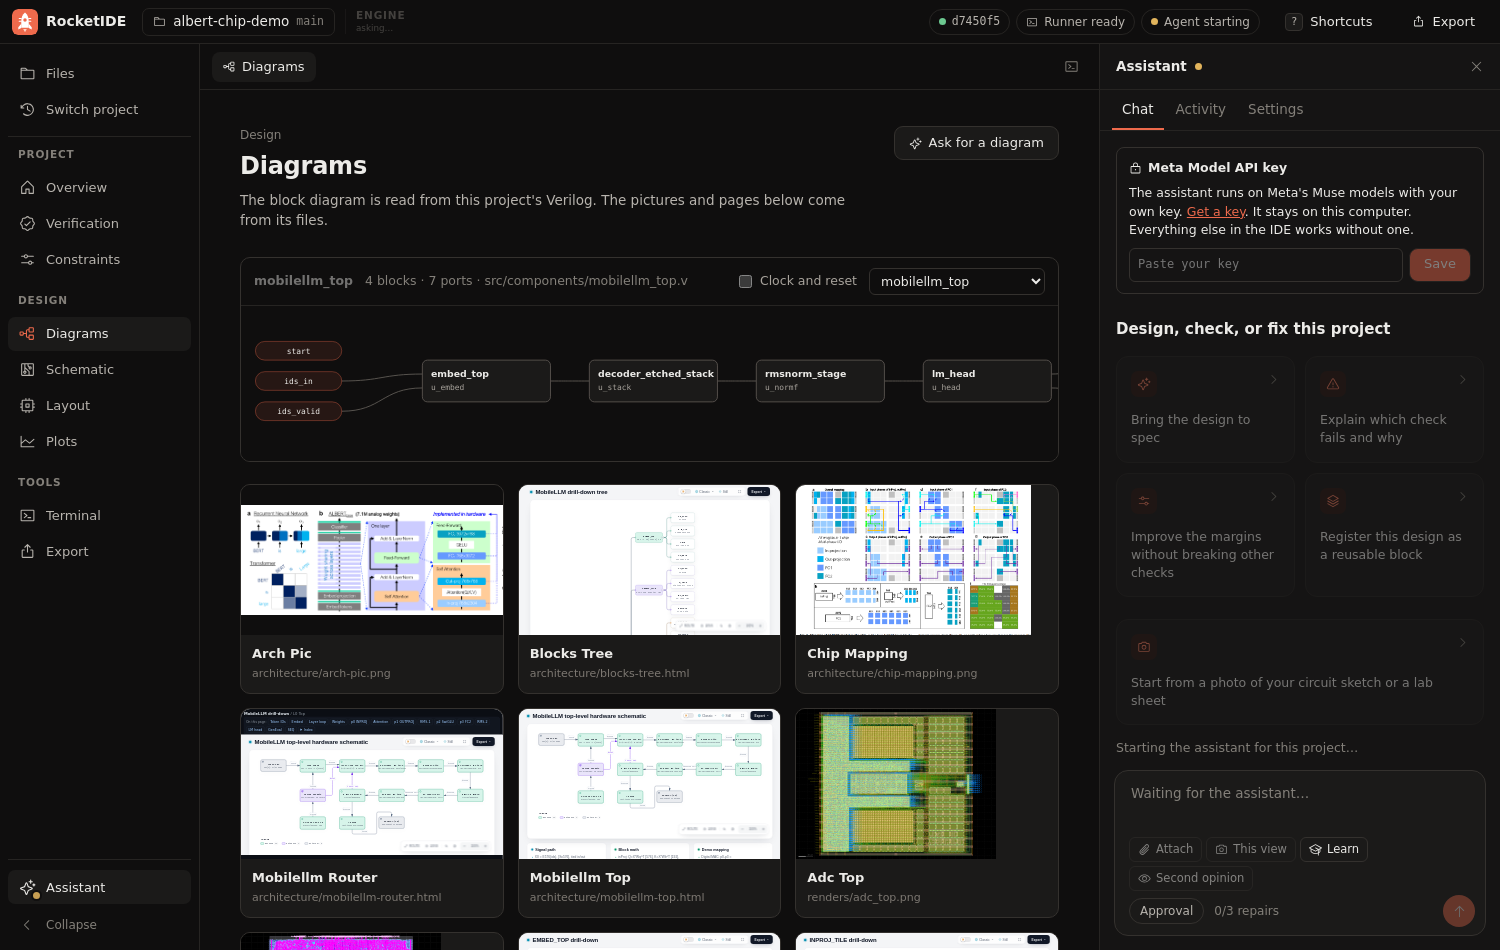
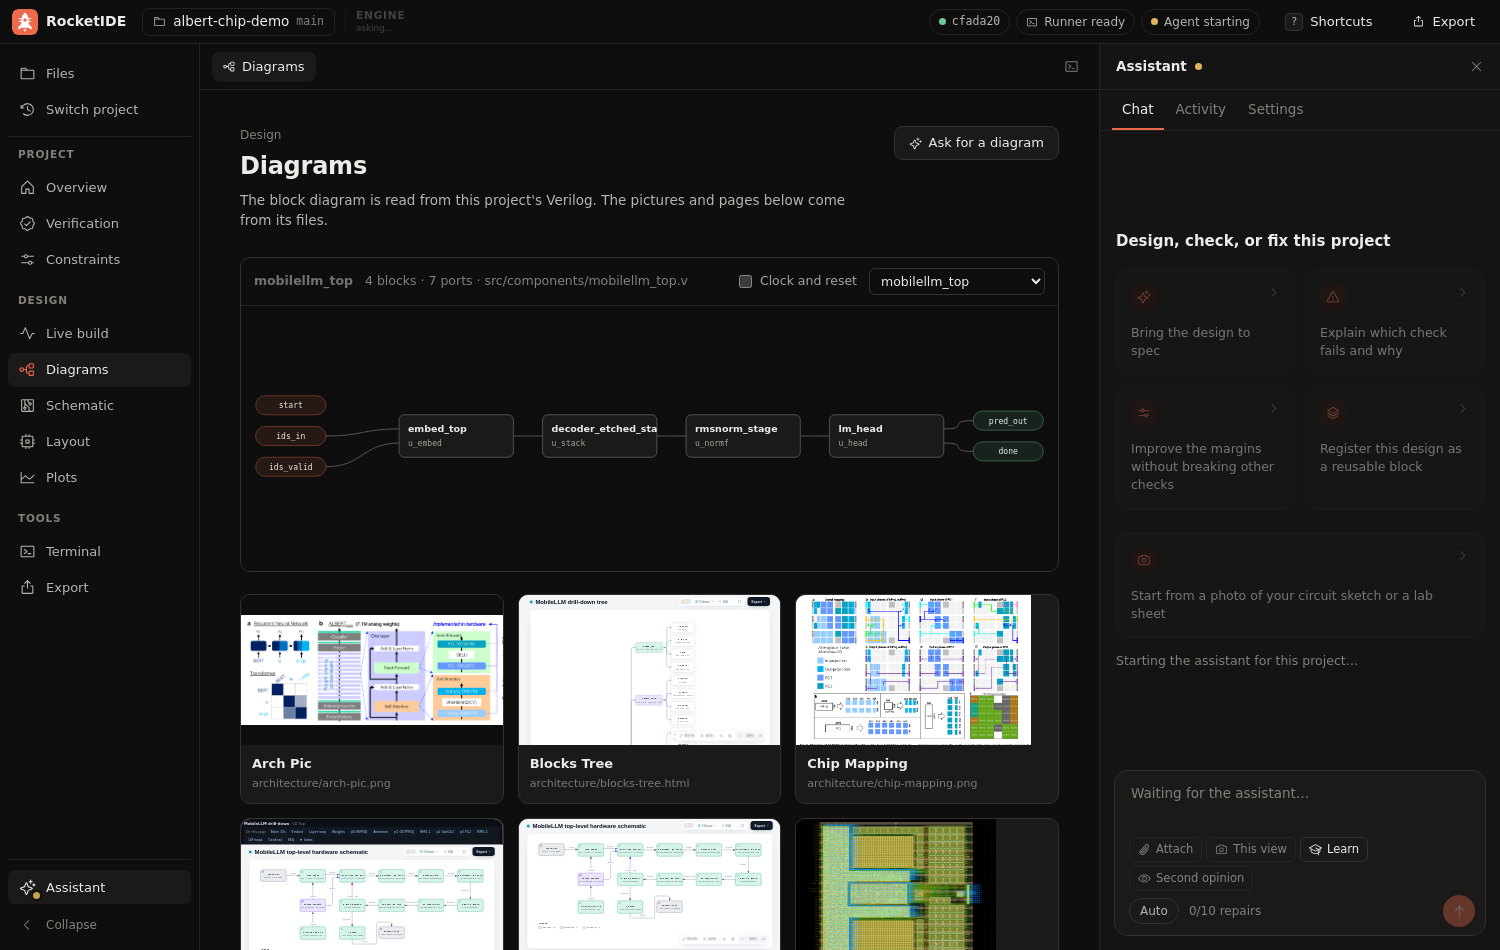
Show the Live build and Verification in the README, and point UIUX at the Live tidy-up

diff --git a/README.md b/README.md
@@ -100,6 +100,14 @@ them under **Activity**. Keys and prompts are never printed or saved.
 
 <table>
   <tr>
+    <td width="50%"><img src="docs/images/live-drawing.png" alt="Live build part-way through: a block diagram drawing itself mark by mark on white paper, with the build's steps along the bottom"></td>
+    <td width="50%"><img src="docs/images/verification.png" alt="Verification page: a flow from design to verdict, then each measurement on a bar against its target"></td>
+  </tr>
+  <tr>
+    <td valign="top"><b>Live build.</b> Watch the design take shape as the agent works: code line by line with green and red, drawings mark by mark, and checks landing on their targets. Replay the build afterwards.</td>
+    <td valign="top"><b>Verification.</b> How each verdict was reached, every measurement against its target, trends across runs, and which blocks a run has really tested.</td>
+  </tr>
+  <tr>
     <td width="50%"><img src="docs/images/home.png" alt="RocketIDE home screen: recent projects with their pictures, a New project button, and three guided lessons"></td>
     <td width="50%"><img src="docs/images/diagrams.png" alt="Diagrams page: a block diagram read from the MobileLLM chip's Verilog, above the project's architecture pictures and pages"></td>
   </tr>
@@ -124,9 +132,6 @@ them under **Activity**. Keys and prompts are never printed or saved.
     <td valign="top"><b>Lessons.</b> Each starts out failing, the student makes the fix, and the simulator decides when they've passed.</td>
   </tr>
 </table>
-
-**Live build** shows the work as it happens: when the assistant starts, the app draws each file it writes as a diagram,
-schematic or picture, beside a timeline of its steps, with new blocks marked.
 
 ## Demo project
 
